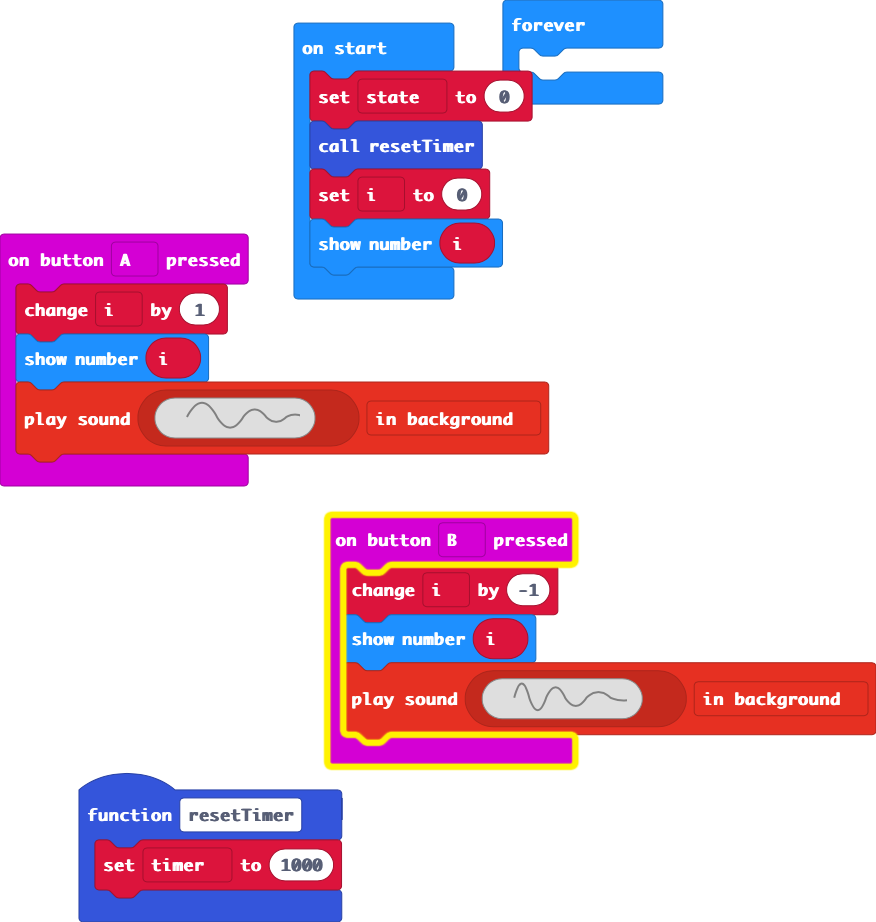
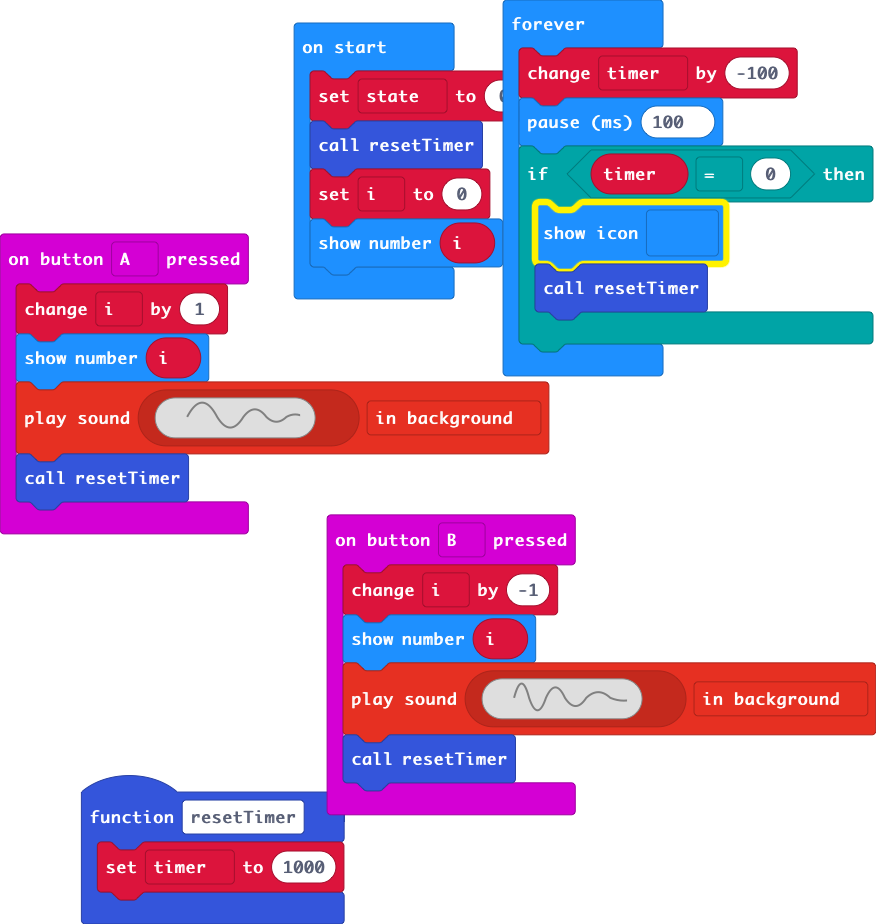
Update main.blocks, main.ts

Changed region(s): [[0.0, 0.0, 1.0, 0.577], [0.0616, 0.5466, 1.0, 1.0], [0.339, 0.0304, 0.4315, 0.0607]]

diff --git a/main.ts b/main.ts
@@ -2,11 +2,13 @@ input.onButtonPressed(Button.A, function () {
     i += 1
     basic.showNumber(i)
     music.playSoundEffect(music.createSoundEffect(WaveShape.Sine, 0, 3000, 255, 0, 500, SoundExpressionEffect.None, InterpolationCurve.Linear), SoundExpressionPlayMode.InBackground)
+    resetTimer()
 })
 input.onButtonPressed(Button.B, function () {
     i += -1
     basic.showNumber(i)
     music.playSoundEffect(music.createSoundEffect(WaveShape.Sine, 3000, 0, 255, 0, 500, SoundExpressionEffect.None, InterpolationCurve.Linear), SoundExpressionPlayMode.InBackground)
+    resetTimer()
 })
 function resetTimer () {
     timer = 1000
@@ -18,5 +20,10 @@ resetTimer()
 i = 0
 basic.showNumber(i)
 basic.forever(function () {
-	
+    timer += -100
+    basic.pause(100)
+    if (timer == 0) {
+        basic.showIcon(IconNames.TShirt)
+        resetTimer()
+    }
 })
